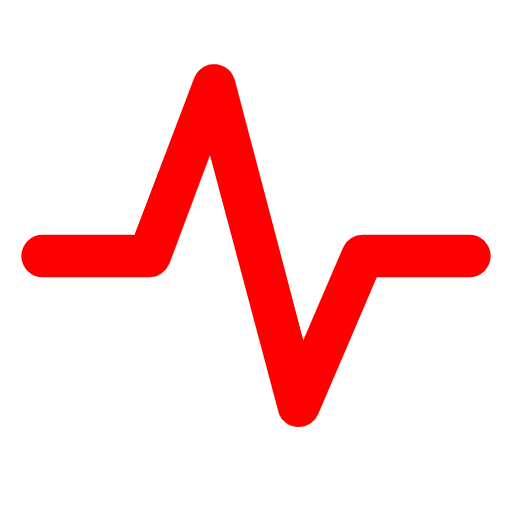
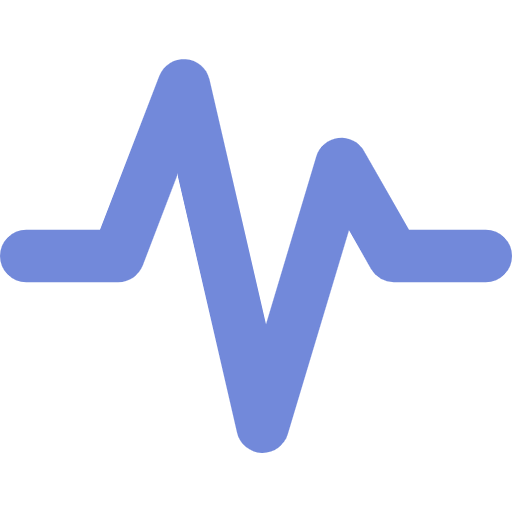
Update images and theme colors

Changed region(s): [[0.0, 0.0938, 1.0, 0.9062]]

diff --git a/app/auth/(components)/signin-form.tsx b/app/auth/(components)/signin-form.tsx
@@ -1,0 +1,124 @@
+import { Spacer } from "@/components/spacer";
+import { useState } from "react";
+import { View, StyleSheet, TouchableOpacity, ScrollView } from "react-native";
+import { Button, Divider, Text, TextInput, useTheme } from "react-native-paper";
+
+export function SigninForm() {
+  const colors = useTheme().colors;
+
+  const [showPassword, setShowPassword] = useState(false);
+
+  return (
+    <ScrollView style={styles.container} showsVerticalScrollIndicator={false}>
+      <View style={styles.rowContainer}>
+        <Text>Don't have an account? </Text>
+        <TouchableOpacity>
+          <Text variant="bodyLarge" style={{ color: colors.primary }}>
+            Sign up
+          </Text>
+        </TouchableOpacity>
+      </View>
+      <View style={styles.inner}>
+        <Spacer marginBottom={24} marginTop={24}>
+          <Text variant="labelSmall">Email*</Text>
+          <TextInput
+            style={{ width: "100%" }}
+            textContentType="emailAddress"
+            placeholder="John@Doe.example.com"
+            mode="outlined"
+            right={<TextInput.Icon icon="close" onPress={() => null} />}
+          />
+        </Spacer>
+        <Spacer marginBottom={12} marginTop={24}>
+          <Text variant="labelSmall">Password*</Text>
+          <TextInput
+            style={{ width: "100%" }}
+            textContentType="password"
+            placeholder="******"
+            mode="outlined"
+            secureTextEntry={!showPassword}
+            right={
+              showPassword ? (
+                <TextInput.Icon
+                  icon="eye-off"
+                  onPress={() => setShowPassword(false)}
+                />
+              ) : (
+                <TextInput.Icon
+                  icon="eye"
+                  onPress={() => setShowPassword(true)}
+                />
+              )
+            }
+          />
+        </Spacer>
+        <Spacer marginBottom={12}>
+          <TouchableOpacity>
+            <Text
+              variant="labelSmall"
+              style={{ textAlign: "right", color: colors.primary }}
+            >
+              Forgot your password?
+            </Text>
+          </TouchableOpacity>
+        </Spacer>
+        <Spacer marginBottom={12} marginTop={24}>
+          <Button
+            textColor="#fff"
+            mode="contained"
+            onPress={() => console.log("Pressed")}
+          >
+            Sign in
+          </Button>
+        </Spacer>
+        <Spacer marginBottom={12} marginTop={12}>
+          <View style={styles.rowContainer}>
+            <Divider style={styles.divider} />
+            <Text variant="labelSmall" style={styles.dividerText}>
+              Or Sign in with
+            </Text>
+            <Divider style={styles.divider} />
+          </View>
+        </Spacer>
+        <Button
+          style={{ width: "100%" }}
+          textColor="#000"
+          buttonColor="#fff"
+          mode="outlined"
+          onPress={() => console.log("Pressed")}
+          icon="google"
+        >
+          Google
+        </Button>
+      </View>
+    </ScrollView>
+  );
+}
+
+const styles = StyleSheet.create({
+  keyboardAvoidingView: {
+    flex: 1,
+  },
+  container: {
+    flex: 1,
+  },
+  inner: {
+    justifyContent: "flex-start",
+    alignItems: "flex-start",
+    width: "100%",
+  },
+  rowContainer: {
+    flexDirection: "row",
+    alignItems: "center",
+    width: "100%",
+  },
+  divider: {
+    flex: 1,
+    height: 1,
+  },
+  dividerText: {
+    marginHorizontal: 8,
+  },
+});
+
+export default SigninForm;

diff --git a/app/auth/(components)/header-card.tsx b/app/auth/(components)/header-card.tsx
@@ -1,0 +1,50 @@
+import React from "react";
+import { Image, StyleSheet, View } from "react-native";
+import { Text } from "react-native-paper";
+
+type HeaderCardProps = {
+  title: string;
+  subtitle: string;
+};
+
+export function HeaderCard({ title, subtitle }: HeaderCardProps) {
+  return (
+    <View style={styles.container}>
+      <Image
+        style={[styles.imgContainer, { height: 180 }]}
+        source={require("../../../assets/images/unsplash.jpg")}
+      />
+      <View style={styles.contentContainer}>
+        <Text
+          variant="headlineLarge"
+          style={{ fontWeight: "bold", marginBottom: 8, color: "white" }}
+        >
+          {title}
+        </Text>
+        <Text style={{ color: "lightgray" }}>{subtitle}</Text>
+      </View>
+    </View>
+  );
+}
+
+const styles = StyleSheet.create({
+  container: {
+    position: "relative",
+    width: "100%",
+    alignItems: "center",
+    justifyContent: "flex-start",
+  },
+  imgContainer: {
+    width: "100%",
+    opacity: 0.8,
+    zIndex: 1,
+  },
+  contentContainer: {
+    position: "absolute",
+    top: 82,
+    left: 0,
+    paddingLeft: 16,
+    width: "100%",
+    zIndex: 2,
+  },
+});

diff --git a/app/auth/signin.tsx b/app/auth/signin.tsx
@@ -1,11 +1,20 @@
 import React from "react";
-import { View } from "react-native";
-import { Text } from "react-native-paper";
+import { KeyboardAvoidingView, Platform } from "react-native";
+
+import { HeaderCard } from "./(components)/header-card";
+import { SigninForm } from "./(components)/signin-form";
+import { SafeAreaViewContainer } from "@/components/safe-area-view";
 
 export default function SigninPage() {
   return (
-    <View style={{ flex: 1 }}>
-      <Text>SigninPage</Text>
-    </View>
+    <KeyboardAvoidingView
+      behavior={Platform.OS === "ios" ? "padding" : "height"}
+      style={{ flex: 1 }}
+    >
+      <HeaderCard title="Welcome Back" subtitle="Sign in to your account" />
+      <SafeAreaViewContainer>
+        <SigninForm />
+      </SafeAreaViewContainer>
+    </KeyboardAvoidingView>
   );
 }

diff --git a/components/spacer.tsx b/components/spacer.tsx
@@ -1,0 +1,29 @@
+import { View, StyleSheet } from "react-native";
+
+type SpacerProps = {
+  marginTop?: number;
+  marginLeft?: number;
+  marginRight?: number;
+  marginBottom?: number;
+  children?: React.ReactNode;
+};
+
+export function Spacer({
+  marginTop,
+  marginLeft,
+  marginRight,
+  marginBottom,
+  children,
+}: SpacerProps) {
+  const styles = StyleSheet.create({
+    spacer: {
+      marginTop: marginTop,
+      marginLeft: marginLeft,
+      marginRight: marginRight,
+      marginBottom: marginBottom,
+      width: "100%",
+    },
+  });
+
+  return <View style={styles.spacer}>{children}</View>;
+}

diff --git a/app/auth/_layout.tsx b/app/auth/_layout.tsx
@@ -1,10 +1,13 @@
-import { SafeAreaVew } from "@/components/safe-area-view";
 import { Slot } from "expo-router";
+import { View } from "react-native";
+import { useTheme } from "react-native-paper";
 
 export default function Index() {
+  const { colors } = useTheme();
+
   return (
-    <SafeAreaVew>
+    <View style={{ flex: 1, backgroundColor: colors.background }}>
       <Slot />
-    </SafeAreaVew>
+    </View>
   );
 }

diff --git a/components/safe-area-view.tsx b/components/safe-area-view.tsx
@@ -2,7 +2,11 @@ import React from "react";
 import { useTheme } from "react-native-paper";
 import { SafeAreaView } from "react-native-safe-area-context";
 
-export function SafeAreaVew({ children }: { children?: React.ReactNode }) {
+export function SafeAreaViewContainer({
+  children,
+}: {
+  children?: React.ReactNode;
+}) {
   const { colors } = useTheme();
 
   return (

diff --git a/themes/light-theme.ts b/themes/light-theme.ts
@@ -4,7 +4,7 @@ export const lightTheme = {
   ...MD3LightTheme,
   colors: {
     ...MD3LightTheme.colors,
-    primary: "#ff0000",
+    primary: "#7289da",
     background: "#ffffff",
     surface: "#ffffff",
     text: "#000000",

diff --git a/themes/dark-theme.ts b/themes/dark-theme.ts
@@ -4,7 +4,7 @@ export const darkTheme = {
   ...MD3DarkTheme,
   colors: {
     ...MD3DarkTheme.colors,
-    primary: "#ff0000",
+    primary: "#7289da",
     background: "#1e2124",
     surface: "#36393e",
     text: "#ffffff",

diff --git a/components/splash-screen.tsx b/components/splash-screen.tsx
@@ -63,6 +63,6 @@ const styles = StyleSheet.create({
     position: "absolute", // Add this line
     width: 100,
     height: 4,
-    backgroundColor: "#ff0000",
+    backgroundColor: "#7289da",
   },
 });
